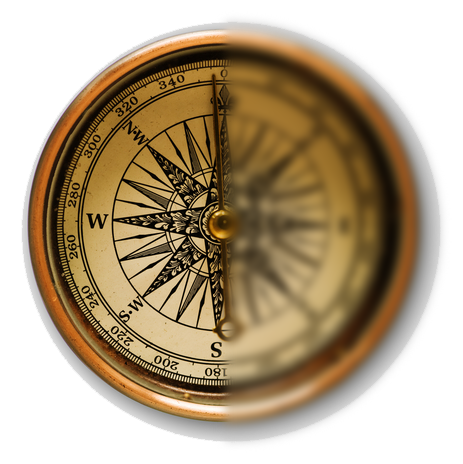
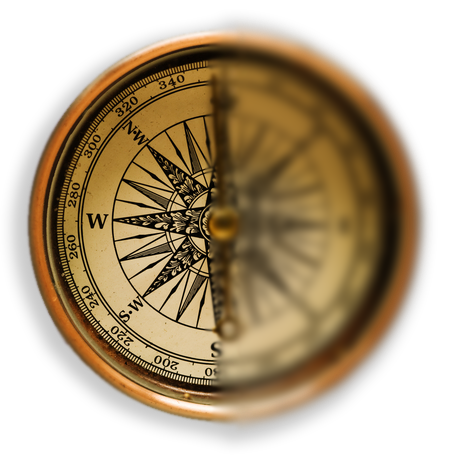
intro Page

diff --git a/app/app.css b/app/app.css
@@ -10,7 +10,7 @@
 .coverImage {
     background-repeat: no-repeat;
     background-position: center;
-    background-size: cover;
+    background-size: contain;
 }
 .optimusFont
 {
